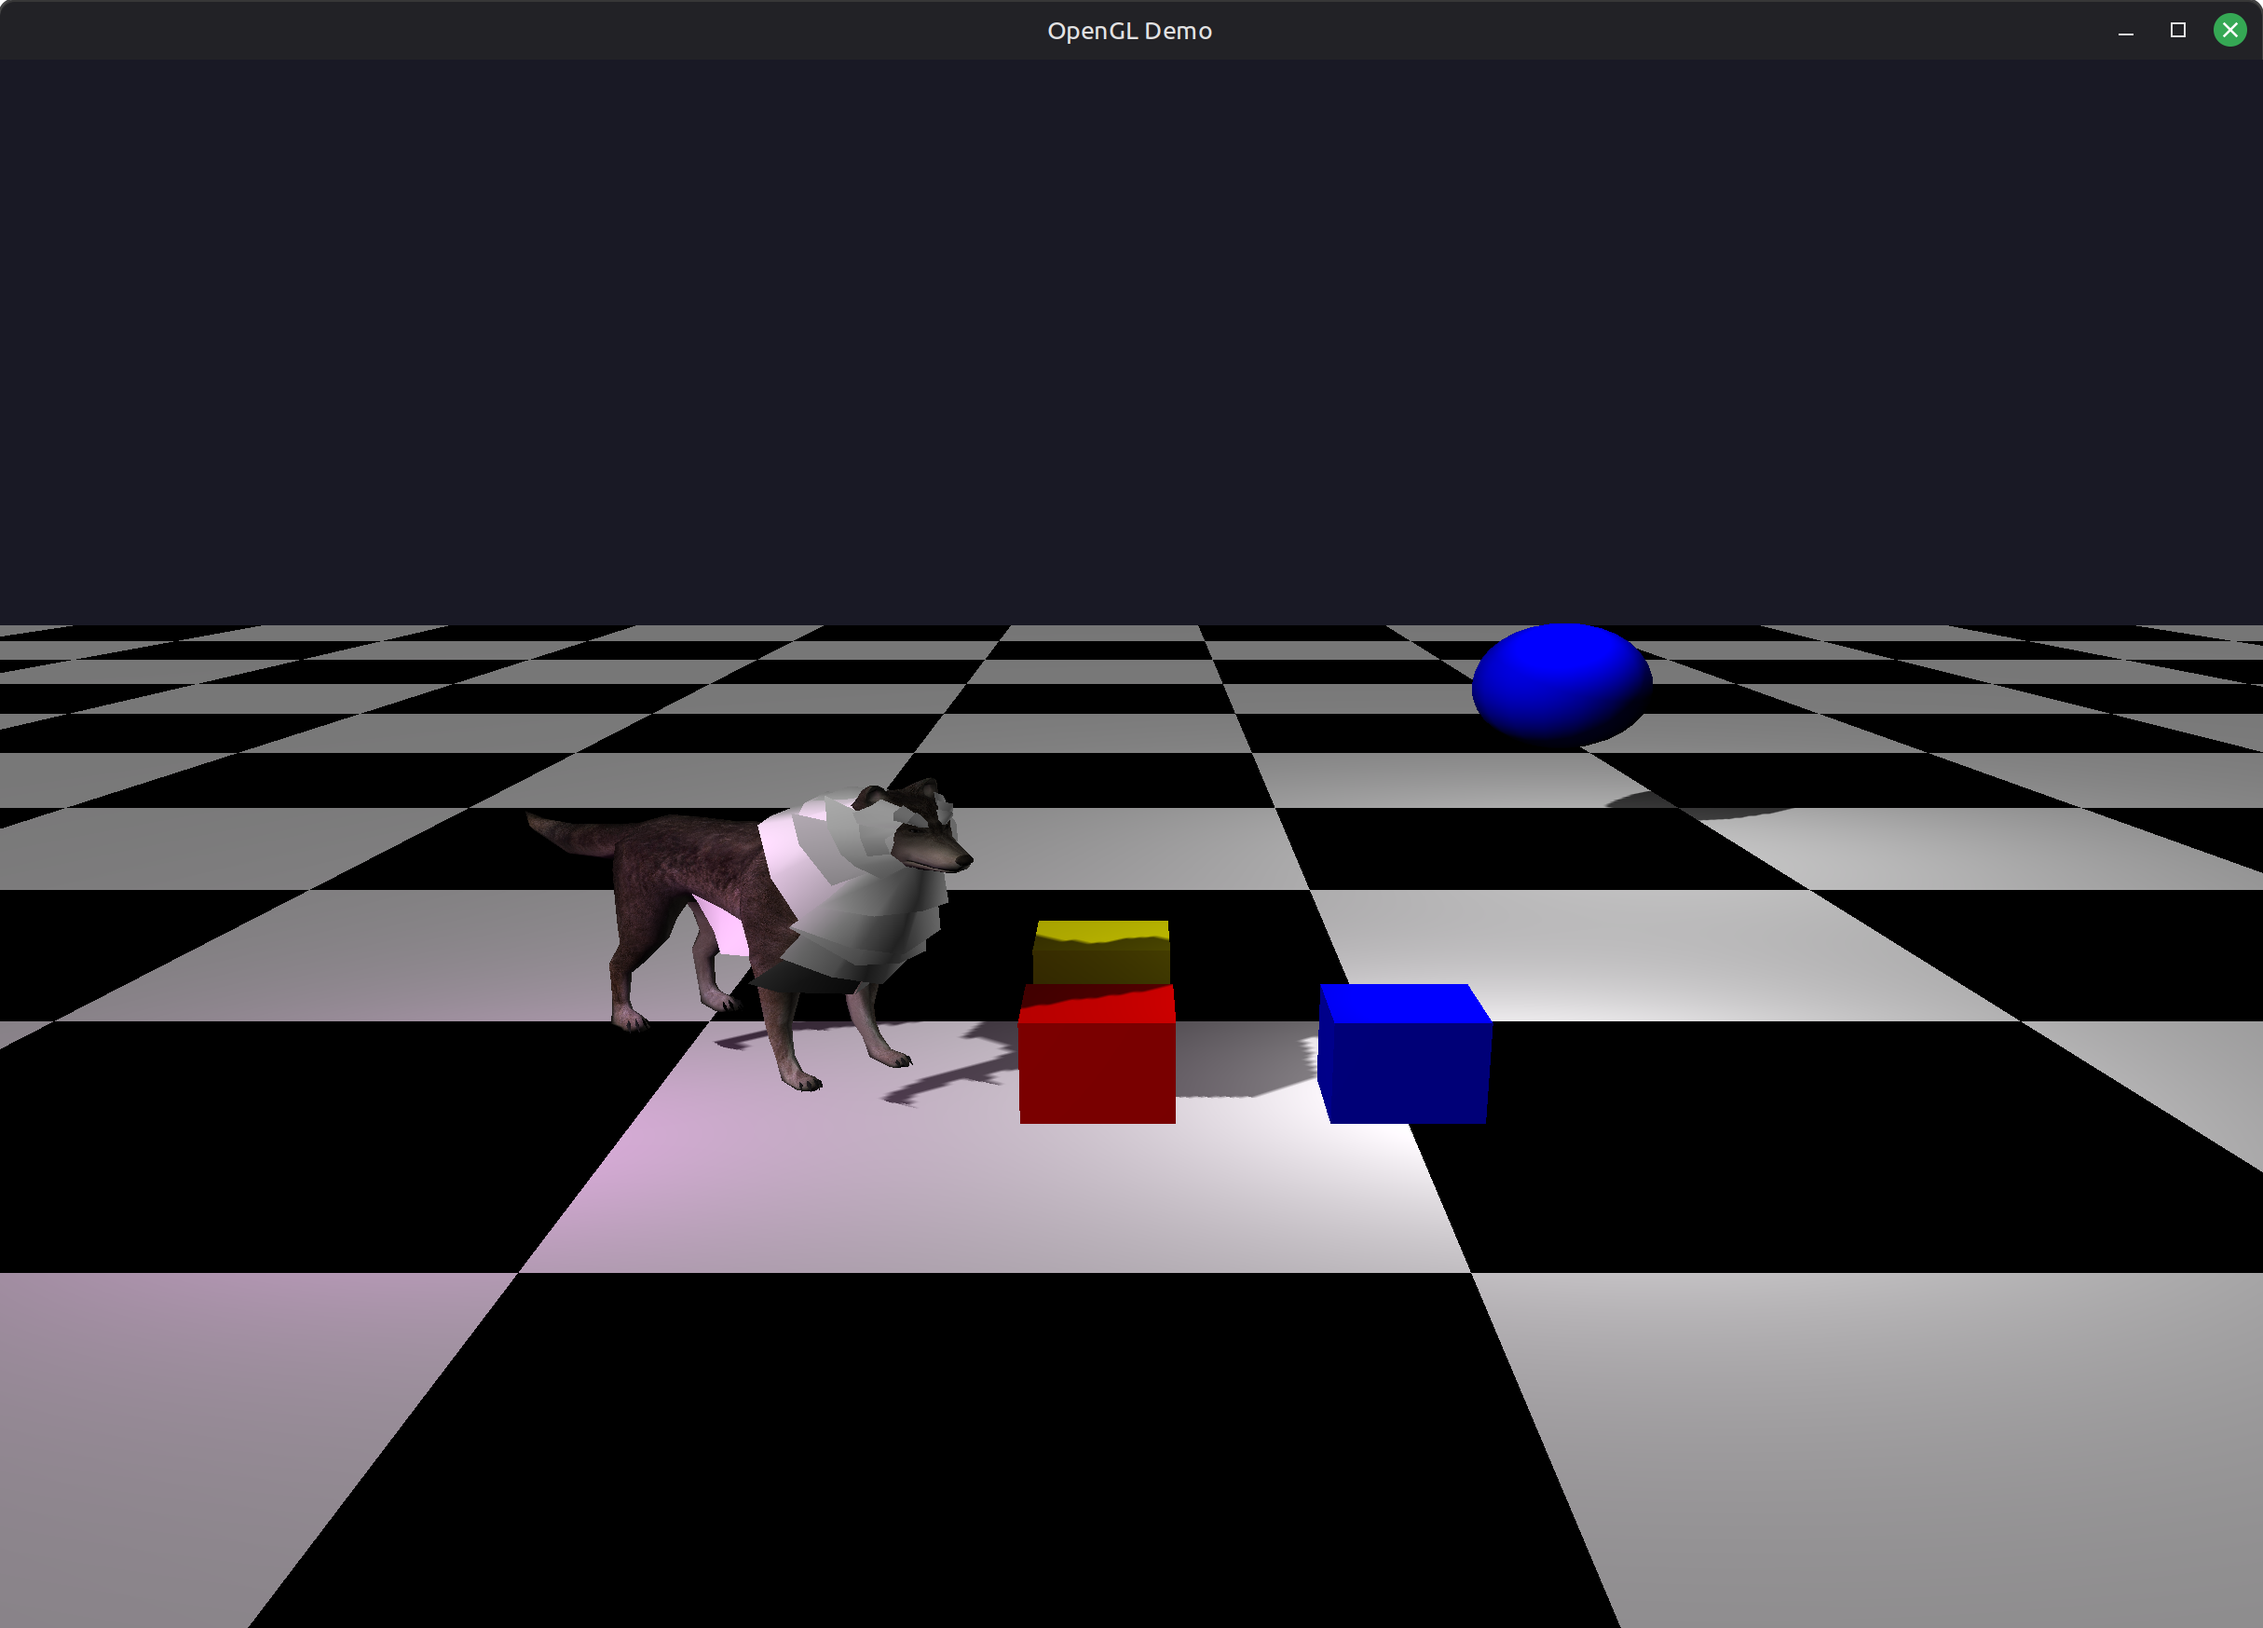
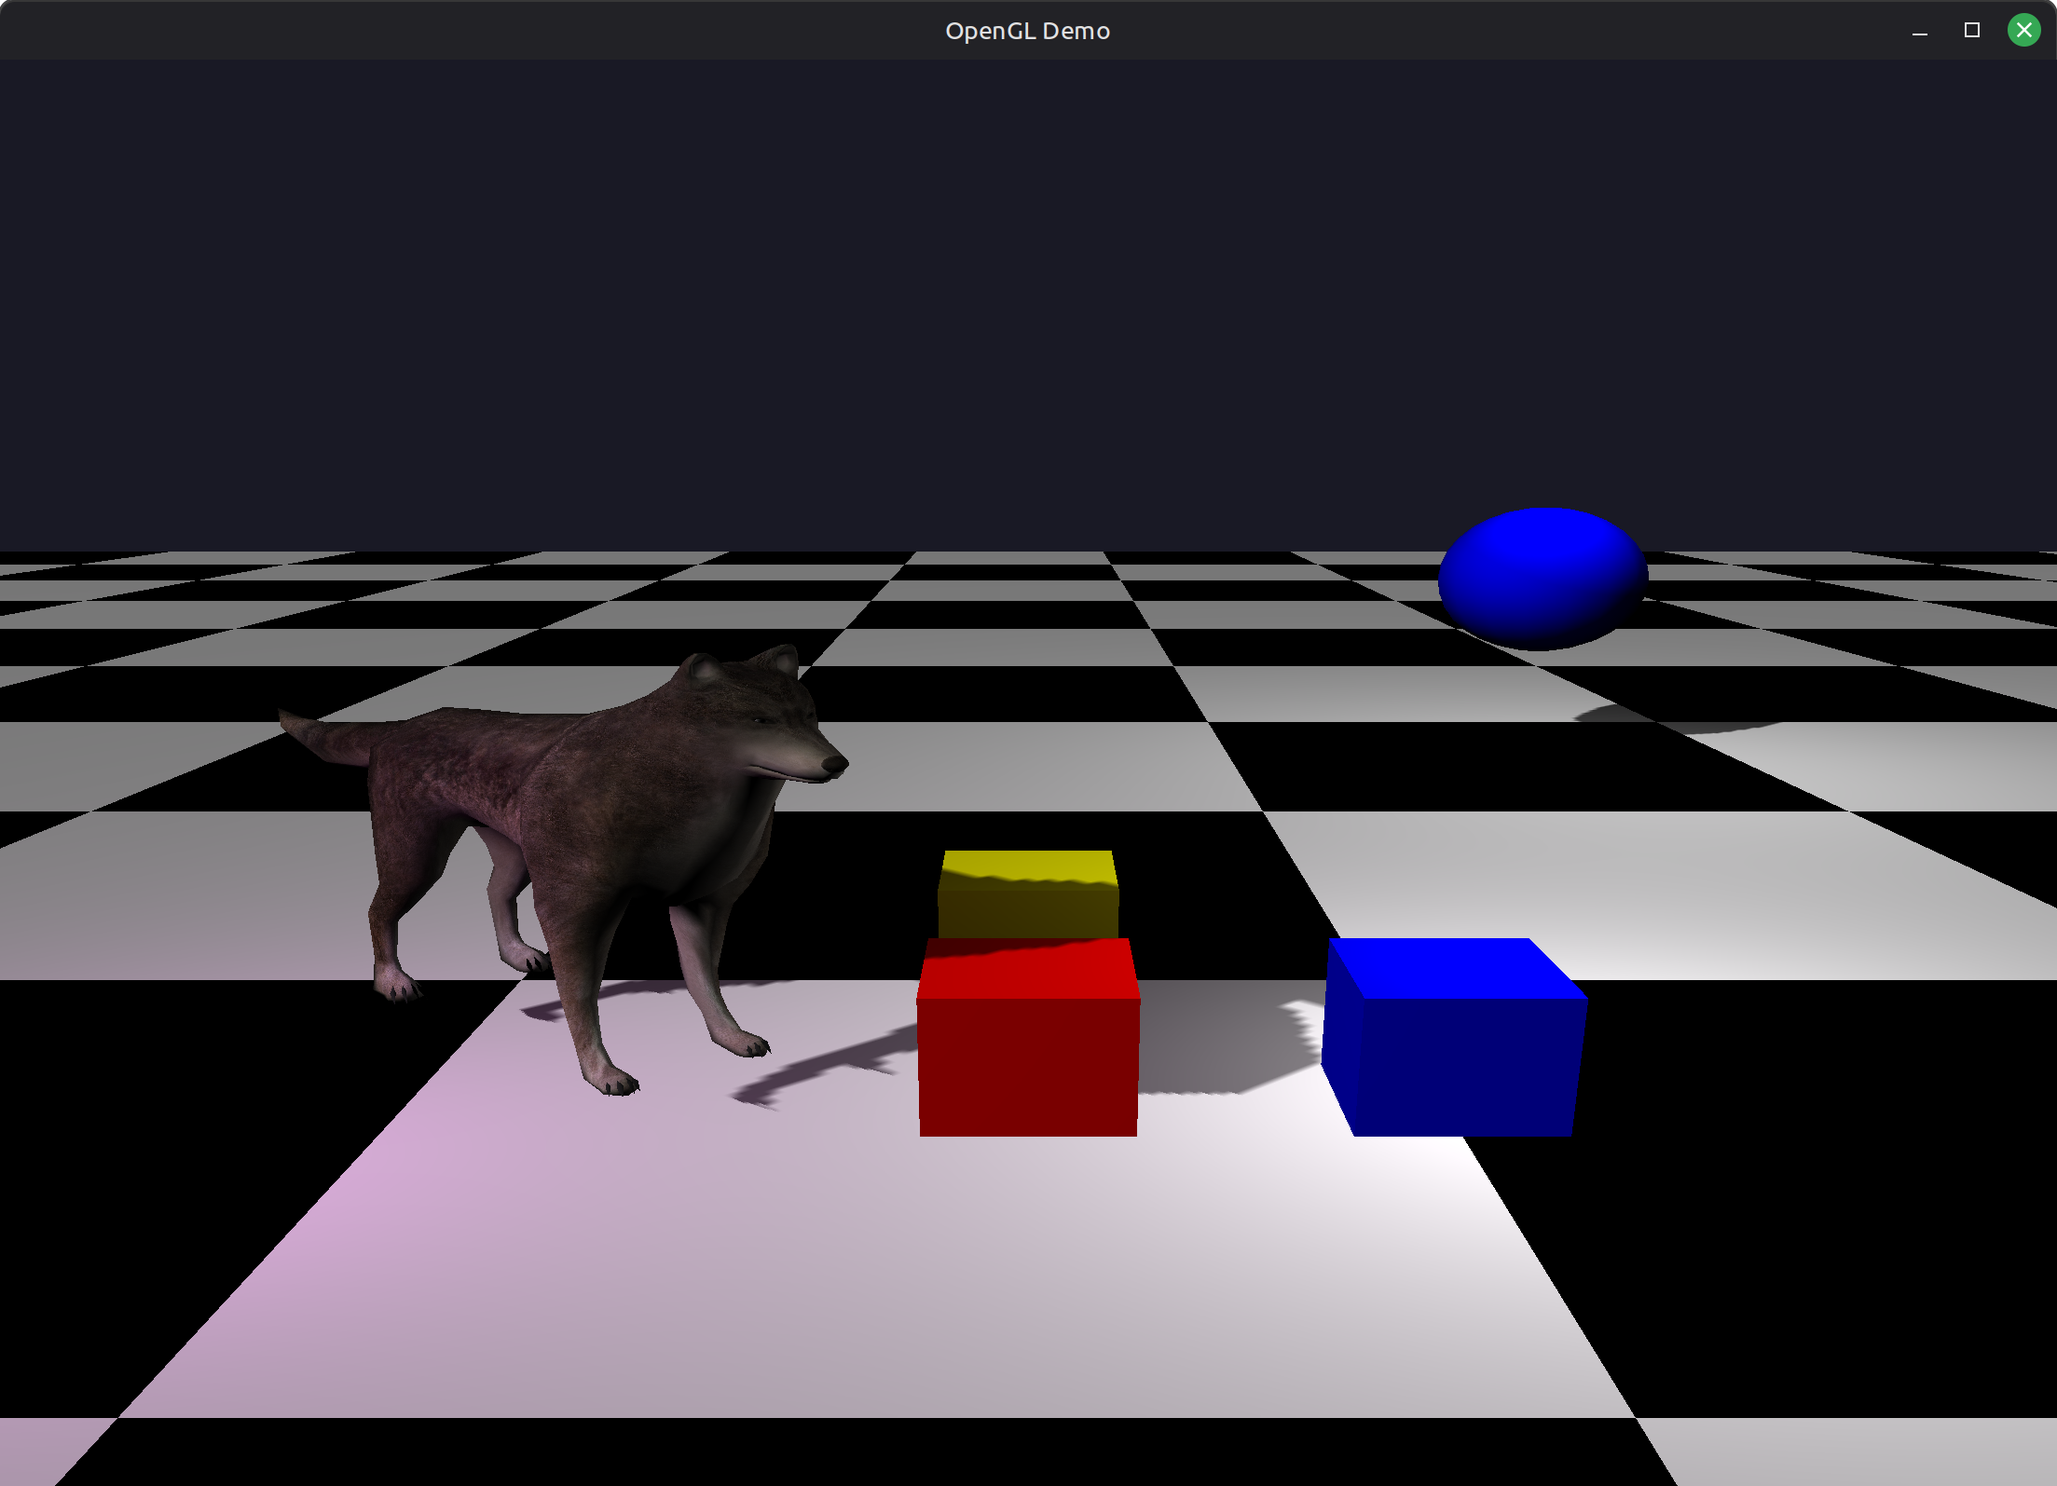
Update readme

diff --git a/README.md b/README.md
@@ -5,6 +5,9 @@ This is a hobby 3D graphics project, primarily for learning more about rendering
 
 ![scene_image](demo.png)
 
+* Wolf in demo by Dennis Haupt. used under personal use license for demo showcase and not included as part of this repository
+[Downloaded from here](https://free3d.com/3d-model/wolf-rigged-and-game-ready-42808.html)
+
 ## Requirements
 - OpenGL 4.5+
 
